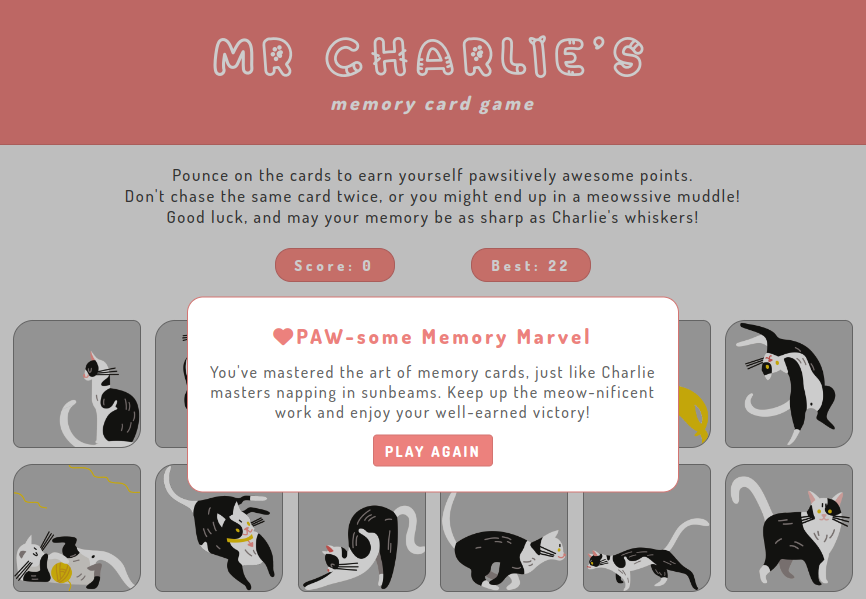
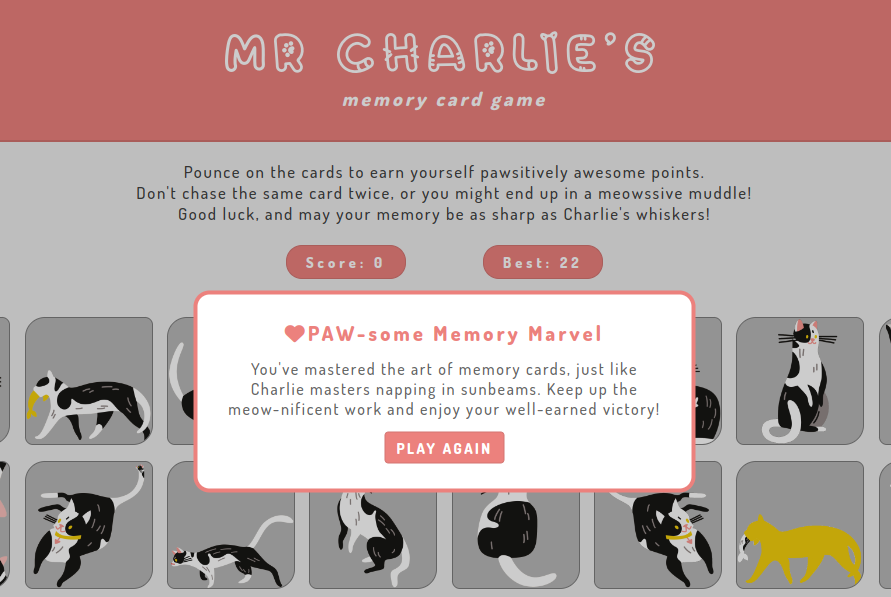
Update modal border and demo images

diff --git a/src/styles/index.css b/src/styles/index.css
@@ -49,7 +49,7 @@ header {
     width: 100%;
     height: 20rem;
     user-select: none;
-    border-bottom: 2px solid #d47471;
+    border-bottom: 3px solid #d47471;
 }
 
 .logo {
@@ -168,16 +168,16 @@ dialog::backdrop {
 
 .outcome-modal {
     background-color: white;
-    padding: 2rem 1rem;
+    padding: 2rem;
     margin: 0 30%;
     flex-direction: column;
     text-align: center;
-    border: 2px solid #d47471;
+    border: 5px solid #ec817d;
     border-radius: 20px;
     gap: 1rem;
     color: #ec817d;
     font-family: 'Dosis', sans-serif;
-    min-width: 400px;
+    min-width: 350px;
 }
 
 .outcome-header {
